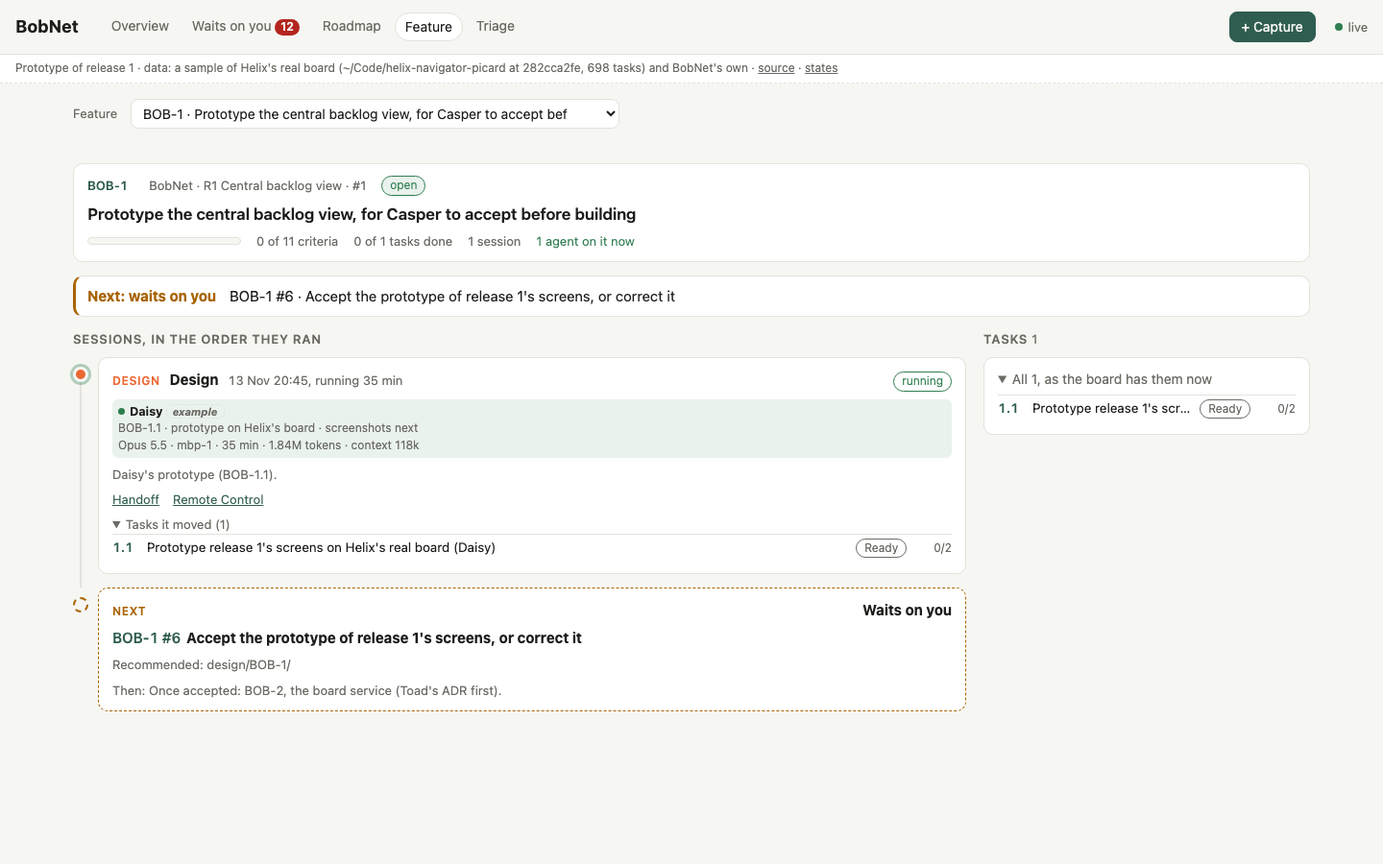
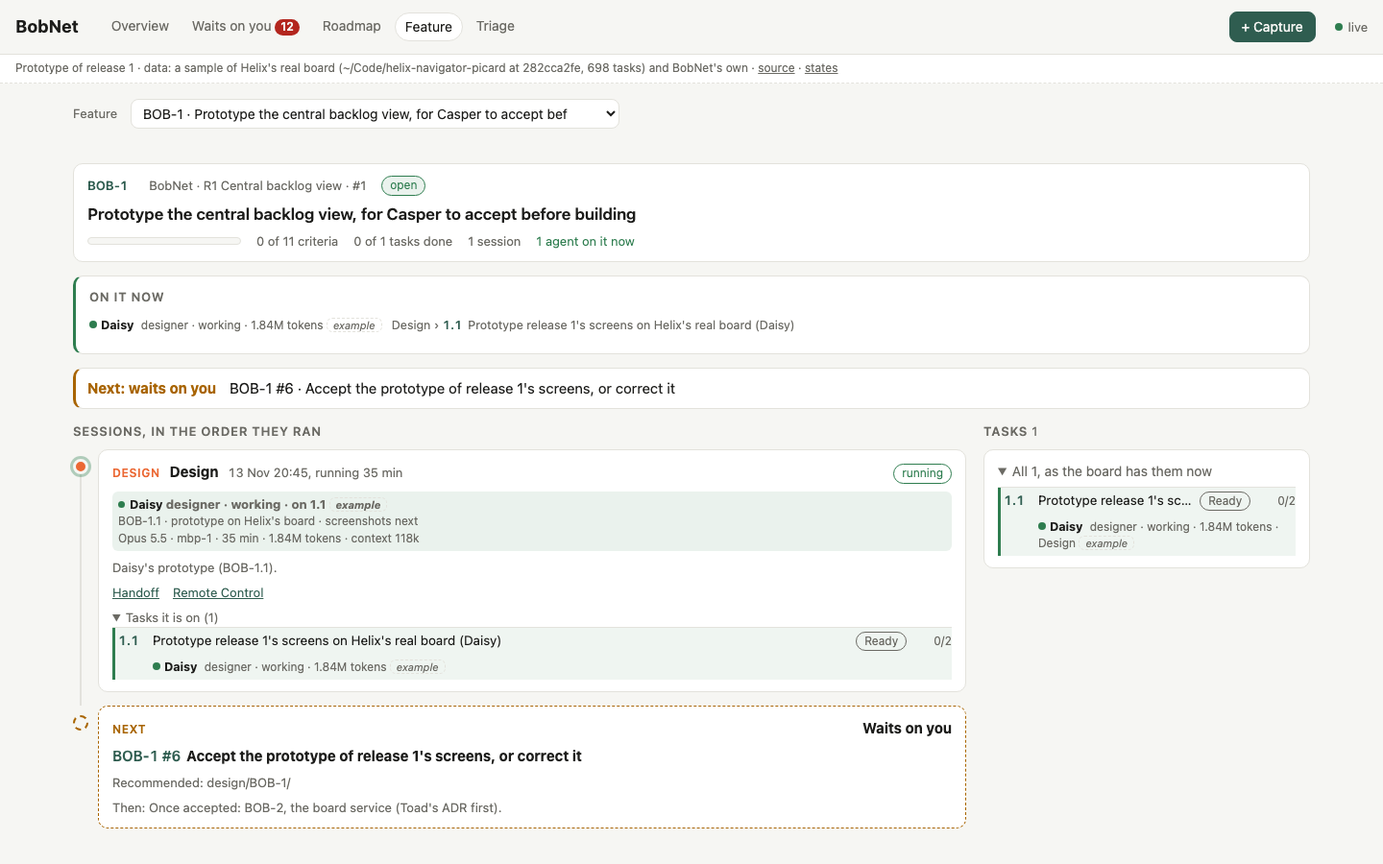
v2: design: BOB-1 round 1: agents on tasks, Overview redone, A-15 and Q-259 as needed-before

diff --git a/design/BOB-1/prototype/proto.js b/design/BOB-1/prototype/proto.js
@@ -75,50 +75,79 @@ function toast(text, undo) {
 
 const waitCount = () => state.waits.length;
 
-// ---------- Overview: every project, what's open, what's next, what waits on Casper ----------
+// Who works on what right now. A worker declares its session {feature, kind, label} and its tasks at spawn,
+// so agent -> session -> tasks is known. Leads and consults declare no session: "Other work".
+function working() {
+  const out = [];
+  for (const p of R.projects) for (const f of allFeatures(p.key)) for (const s of R.sessions[f.id] ?? [])
+    if (s.state === "running") for (const a of s.agents ?? []) out.push({ ...a, p, f, s });
+  for (const a of R.other ?? []) out.push({ ...a, p: proj(a.project), f: null, s: null, tasks: [] });
+  return out;
+}
+const onTask = (fid, n) => working().filter((a) => a.f?.id === fid && a.tasks.includes(n));
+const taskTitle = (fid, n) => { const b = R.projects.map((p) => S[p.key]).find((b) => b.feature === fid); return b?.tasks.find((t) => short(t.id) === n)?.title; };
+const STATE_DOT = { working: "on", "waiting on you": "warn", idle: "" };
+const agentChip = (a, withSession) => h("span", { class: "who", dataset: { state: a.state } },
+  h("i", { class: `dot ${STATE_DOT[a.state] ?? ""}`, "aria-hidden": "true" }), h("b", null, a.name), ` ${a.role} · ${a.state} · ${tok(a.tokens)} tokens`,
+  withSession && a.s ? ` · ${a.s.label}` : "", " ", ex(a.example));
+
+// ---------- Overview: what needs Casper, who is working on what, where each project stands ----------
 
 function overview() {
-  const blocking = state.waits.filter((w) => w.blocking);
-  const working = Object.values(R.sessions).flat().filter((s) => s.state === "running").flatMap((s) => s.agents ?? []);
-  const backlog = R.projects.reduce((n, p) => n + items(p.key).length, 0);
+  const ws = [...state.waits].sort((a, b) => a.since.localeCompare(b.since));
+  const blocking = ws.filter((w) => w.blocking), rest = ws.length - blocking.length;
+  const now = working();
   return [
-    h("div", { class: "totals" },
-      h("a", { href: "#waits", class: "tot" }, h("div", { class: blocking.length ? "hot" : "" }, h("b", null, waitCount()), h("span", null, `wait on you · ${blocking.length} hold work up`))),
-      h("div", null, h("b", null, working.length), h("span", null, "agents working")),
-      h("div", null, h("b", null, R.projects.length), h("span", null, "projects, 1 laptop")),
-      h("div", null, h("b", null, backlog), h("span", null, "backlog items to triage"))),
-    h("section", null, h("h2", null, "Projects"),
-      h("div", { class: "cards" }, R.projects.map(projectCard))),
-    h("section", null, h("h2", null, "Holds work up ", h("span", { class: "count" }, blocking.length)),
-      h("ul", { class: "list waits" }, blocking.slice(0, 3).map(waitItem)),
-      h("p", { class: "note" }, h("a", { href: "#waits" }, `All ${waitCount()} that wait on you`))),
+    h("div", { class: "ov" },
+      h("section", { class: "ov-needs" }, h("h2", null, "Needs you ", h("span", { class: "count" }, ws.length)),
+        h("div", { class: "card" },
+          blocking.length ? h("ul", { class: "lines" }, blocking.map((w) => h("li", { class: "hold" },
+            badge(w.kind === "bug" ? "bug" : w.kind, KIND[w.kind]),
+            h("a", { href: "#waits", class: "l-t" }, w.text),
+            h("span", { class: "l-m" }, `${proj(w.project).name}${w.feature ? ` · ${w.feature}` : ""} · holds up ${w.holds}`, " ", ex(w.example)))))
+            : h("p", { class: "muted", style: "margin:0" }, "Nothing is held up by you."),
+          h("a", { href: "#waits", class: "more" }, rest ? `${plural(blocking.length, "holds", "hold")} work up · ${rest} more when you have time →` : "Waits on you →"))),
+      h("section", { class: "ov-now" }, h("h2", null, "Working now ", h("span", { class: "count" }, now.length)),
+        now.length ? h("div", { class: "card" }, h("ul", { class: "lines now-list" }, now.map(nowLine)))
+          : h("div", { class: "empty-card" }, "No agent is working.")),
+      h("section", { class: "ov-proj" }, h("h2", null, "Projects"),
+        h("div", { class: "plist" }, R.projects.map(projectRow)))),
   ];
 }
 
-function projectCard(p) {
+function nowLine(a) {
+  const n = a.tasks[0];
+  return h("li", { dataset: { state: a.state } },
+    h("span", { class: "l-who" }, h("i", { class: `dot ${STATE_DOT[a.state] ?? ""}`, "aria-hidden": "true" }), h("b", null, a.name), h("span", { class: "muted" }, ` ${a.role}`)),
+    h("span", { class: "l-path" },
+      h("span", { class: "muted" }, a.p.name, " › "),
+      a.f ? [h("a", { class: "id", href: `#feature/${a.f.id}` }, a.f.id), h("span", { class: "muted" }, `${a.s.label} › `),
+        a.tasks.map((t) => h("a", { href: `#feature/${a.f.id}`, class: "l-task", title: taskTitle(a.f.id, t) ?? "" }, h("span", { class: "id" }, t), taskTitle(a.f.id, t)?.replace(/^[^:]{0,40}:\s*/, "") ?? ""))]
+        : h("span", { class: "muted", style: "font-style:italic" }, "Other work (no session)")),
+    h("span", { class: "l-m" }, a.state === "working" ? null : h("span", { style: "color:var(--warn)" }, `${a.state} · `), `${tok(a.tokens)} tokens`, " ", ex(a.example)));
+}
+
+function projectRow(p) {
   const fs = allFeatures(p.key);
   const open = fs.find(isOpen), ready = fs.find((f) => f.status === "Ready" && !isOpen(f));
   const rel = open?.rel ?? releases(p.key)[0];
   const relFs = rel.features, relDone = relFs.filter((f) => f.status === "Done").length;
-  const ws = state.waits.filter((w) => w.project === p.key), wb = ws.filter((w) => w.blocking).length;
   const its = items(p.key), bugs = its.filter(isBug).length, oldest = its.length ? Math.max(...its.map((d) => days(d.created))) : 0;
   const nx = open && R.next[open.id];
-  const agents = open ? (R.sessions[open.id] ?? []).filter((s) => s.state === "running").flatMap((s) => s.agents) : [];
-  return h("div", { class: "card proj" },
-    h("div", { class: "top" }, h("a", { href: `#roadmap/${p.key}`, class: "name", style: "color:inherit;text-decoration:none;font-size:16px" }, p.name),
-      h("span", { class: "sub" }, `${p.laptop} · lead ${p.lead} · PO ${p.po}`)),
-    h("div", { class: "row" }, h("span", null, "Release"), h("span", null, `${rel.title.split(" ")[0]} ${rel.title.split(" ").slice(1).join(" ")} · ${relDone} of ${relFs.length} features done`)),
-    h("div", { class: "row" }, h("span", null, "Open"), open
-      ? h("span", { class: "t" }, h("a", { class: "id", href: `#feature/${open.id}` }, open.id), open.title,
-        h("div", { class: "muted" }, `${open.ac[0]} of ${open.ac[1]} criteria · ${agents.length ? `${plural(agents.length, "agent")} on it now` : "nobody on it now"}`),
-        nx ? h("div", { class: "muted", style: "color:var(--warn)" }, `Next: waits on you, ${nx.item.replace("#", " #")}`) : null)
+  const agents = open ? working().filter((a) => a.f?.id === open.id) : [];
+  const cell = (label, ...kids) => h("div", { class: "pc" }, h("span", { class: "lab" }, label), ...kids);
+  return h("div", { class: "card prow" },
+    h("div", { class: "pc pname" }, h("a", { href: `#roadmap/${p.key}` }, p.name), h("span", { class: "muted" }, `${p.laptop} · lead ${p.lead} · PO ${p.po}`)),
+    cell("Release", h("span", { class: "v" }, h("b", null, rel.title.split(" ")[0]), " ", rel.title.split(" ").slice(1).join(" ")),
+      meter(relDone, relFs.length), h("span", { class: "muted" }, `${relDone} of ${relFs.length} features done`)),
+    cell("Open now", open
+      ? [h("a", { href: `#feature/${open.id}`, class: "v clamp" }, h("span", { class: "id" }, open.id), open.title),
+         h("span", { class: "muted" }, `${open.ac[0]} of ${open.ac[1]} criteria · `,
+           agents.length ? h("span", { style: "color:var(--ok)" }, `${agents.map((a) => a.name).join(", ")} on it`) : "nobody on it")]
       : h("span", { class: "muted" }, "no feature open")),
-    h("div", { class: "row" }, h("span", null, "Next ready"), ready
-      ? h("span", { class: "t" }, h("a", { class: "id", href: `#roadmap/${p.key}` }, ready.id), ready.title)
-      : h("span", { class: "muted" }, "none Ready yet")),
-    h("div", { class: "row" }, h("span", null, "Waits on you"), h("span", null, h("a", { href: "#waits" }, ws.length), wb ? h("span", { style: "color:var(--bad)" }, ` · ${wb} hold work up`) : "")),
-    h("div", { class: "row" }, h("span", null, "Backlog"), its.length
-      ? h("span", null, h("a", { href: `#triage/${p.key}` }, `${its.length} items`), ` · ${plural(bugs, "bug")} · oldest ${oldest} days`)
+    cell("Next", nx ? h("a", { href: "#waits", class: "v", style: "color:var(--warn)" }, `Waits on you: ${nx.item.replace("#", " #")}`) : null,
+      ready ? h("span", { class: "muted clamp" }, "Then Ready: ", h("span", { class: "id" }, ready.id), ready.title) : h("span", { class: "muted" }, "none Ready yet")),
+    cell("Backlog", its.length ? [h("a", { href: `#triage/${p.key}`, class: "v" }, `${its.length} items`), h("span", { class: "muted" }, `${plural(bugs, "bug")} · oldest ${oldest} days`)]
       : h("span", { class: "muted" }, "nothing to triage")));
 }
 
@@ -241,11 +270,14 @@ function feature(id) {
   if (!hit) return [h("div", { class: "empty-card" }, `No feature ${id}.`)];
   const { p, f } = hit;
   const b = S[p.key], ss = R.sessions[id] ?? [], nx = R.next[id];
-  const tasks = b.feature === id ? b.tasks : [];
+  const live = ss.filter((s) => s.state === "running");
+  const liveSt = new Map(live.flatMap((s) => s.moved));
+  // A task an agent is on shows In Progress (the sample's board predates the example session).
+  const tasks = (b.feature === id ? b.tasks : []).map((t) => (liveSt.has(short(t.id)) ? { ...t, status: liveSt.get(short(t.id)) } : t));
   const byShort = new Map(tasks.map((t) => [short(t.id), t]));
   const inSession = new Set(ss.flatMap((s) => s.moved.map((m) => m[0])));
   const loose = tasks.filter((t) => !inSession.has(short(t.id)));
-  const agents = ss.filter((s) => s.state === "running").flatMap((s) => s.agents);
+  const agents = working().filter((a) => a.f?.id === id);
   const pickable = R.projects.flatMap((q) => allFeatures(q.key).filter((x) => x.status !== "Done" && (R.sessions[x.id] || x.status === "Ready")));
   const wait = nx && state.waits.find((w) => w.id === nx.item);
   return [
@@ -258,43 +290,48 @@ function feature(id) {
         h("div", { class: "title" }, f.title),
         h("div", { class: "facts" }, meter(f.ac[0], f.ac[1]), h("span", null, `${f.ac[0]} of ${f.ac[1]} criteria`), h("span", null, `${f.tasksDone} of ${f.tasks} tasks done`),
           h("span", null, `${plural(ss.length, "session")}`), h("span", { style: agents.length ? "color:var(--ok)" : "" }, agents.length ? `${plural(agents.length, "agent")} on it now` : "nobody on it now"))),
+      agents.length ? h("section", { class: "card on-now" }, h("h2", { style: "margin:0" }, "On it now"),
+        h("ul", { class: "lines" }, agents.map((a) => h("li", null, agentChip(a, false), h("span", { class: "l-m" }, `${a.s.label} › `,
+          a.tasks.map((n) => [h("span", { class: "id" }, n), taskTitle(id, n) ?? ""])))))) : null,
       wait ? h("a", { href: "#next", class: "banner", style: "text-decoration:none;color:inherit" }, h("b", { style: "color:var(--warn)" }, "Next: waits on you"), h("span", null, `${wait.id.replace("#", " #")} · ${wait.text}`)) : null,
       h("div", { class: "two" },
         h("section", null, h("h2", null, "Sessions, in the order they ran"),
           ss.length ? h("ol", { class: "steps" }, ss.map((s, i) => stepItem(p, s, byShort, i === ss.length - 1)), nextItem(nx, wait))
             : h("div", { class: "empty-card" }, "No session has run on this feature yet. Next: a design session, once it is Ready.")),
         h("aside", null, h("h2", null, "Tasks ", h("span", { class: "count" }, tasks.length)),
-          loose.length ? h("div", { class: "card", style: "margin-bottom:10px" }, h("div", { class: "muted" }, "In no session yet"), h("ul", { class: "tasks" }, loose.map((t) => taskLi(t, t.status)))) : null,
-          h("details", { class: "card", open: innerWidth >= 1100 || null }, h("summary", { style: "margin:0" }, `All ${tasks.length}, as the board has them now`), h("ul", { class: "tasks" }, tasks.map((t) => taskLi(t, t.status))))))),
+          loose.length ? h("div", { class: "card", style: "margin-bottom:10px" }, h("div", { class: "muted" }, "In no session yet"), h("ul", { class: "tasks" }, loose.map((t) => taskLi(t, t.status, onTask(id, short(t.id)), true)))) : null,
+          h("details", { class: "card", open: innerWidth >= 1100 || null }, h("summary", { style: "margin:0" }, `All ${tasks.length}, as the board has them now`), h("ul", { class: "tasks" }, tasks.map((t) => taskLi(t, t.status, onTask(id, short(t.id)), true))))))),
   ];
 }
 
-function taskLi(t, st) {
-  return h("li", null, h("span", { class: "id" }, short(t.id)), h("span", { class: "tt", title: t.title }, t.title),
-    badge(st === "In Review" ? "in review" : st.toLowerCase(), st), h("span", { class: "ac" }, t.ac[1] ? `${t.ac[0]}/${t.ac[1]}` : "–"));
+function taskLi(t, st, on = [], withSession = false) {
+  return h("li", { class: on.length ? "on" : null }, h("span", { class: "id" }, short(t.id)), h("span", { class: "tt", title: t.title }, t.title),
+    badge(st === "In Review" ? "in review" : st === "In Progress" ? "running" : st.toLowerCase(), st), h("span", { class: "ac" }, t.ac[1] ? `${t.ac[0]}/${t.ac[1]}` : "–"),
+    on.length ? h("span", { class: "on-it" }, on.map((a) => agentChip(a, withSession))) : null);
 }
 
 function stepItem(p, s, byShort, last) {
   const helix = p.key === "helix";
-  const moved = s.moved.map(([n, st]) => { const t = byShort.get(n); return t ? taskLi(t, st) : null; });
+  const live = s.state === "running";
+  const moved = s.moved.map(([n, st]) => { const t = byShort.get(n); return t ? taskLi(t, st, live ? (s.agents ?? []).filter((a) => a.tasks.includes(n)).map((a) => ({ ...a, s })) : []) : null; });
   const closedN = s.moved.filter((m) => m[1] === "Done").length;
   return h("li", { class: "step", dataset: { kind: s.kind, state: s.state } }, h("span", { class: "dot2", "aria-hidden": "true" }),
     h("div", { class: "card" },
-      h("div", { class: "top" }, h("span", { class: "kind" }, s.kind), h("b", null, s.label), h("span", { class: "when" }, span(s.start, s.end)), badge(s.state)),
+      h("div", { class: "top" }, h("span", { class: "kind" }, s.kind), h("b", null, s.label), h("span", { class: "when" }, span(s.start, s.end)), ex(s.example), badge(s.state)),
       s.state === "closed" ? h("div", { class: "outcome" },
         h("span", { class: "need", dataset: { need: s.need } }, `need: ${s.need}`, s.needs.length ? ` (${s.needs.join(", ")})` : ""),
         h("span", null, `${plural(s.blockers, "blocker")} · ${plural(s.majors, "major")}`),
         s.minors ? h("span", null, `${s.minors} minors, fixed`) : null, s.back ? h("span", null, `${s.back} sent back`) : null,
         h("span", null, closedN ? `closed ${plural(closedN, "task")}` : `moved ${plural(s.moved.length, "task")}`),
         s.tokens ? h("span", { class: "muted" }, `${tok(s.tokens)} tokens`, " ", ex(s.tokensExample)) : null) : null,
-      (s.agents ?? []).map((a) => h("div", { class: "agent" }, h("b", null, a.name, " ", ex(a.example)), h("span", { class: "d" }, a.checkpoint),
+      (s.agents ?? []).map((a) => h("div", { class: "agent", dataset: { state: a.state } }, h("b", null, a.name, " ", h("span", { class: "muted" }, `${a.role} · ${a.state}${a.tasks?.length ? ` · on ${a.tasks.join(", ")}` : ""}`), " ", ex(a.example)), h("span", { class: "d" }, a.checkpoint),
         h("span", { class: "d" }, `${a.model} · ${a.laptop} · ${dur(s.start, R.now.slice(0, 16))} · ${tok(a.tokens)} tokens · context ${tok(a.ctx)}`))),
       h("div", { class: "sub" }, s.summary),
       h("div", { class: "links" },
         s.handoff ? h("a", { href: "#source", title: helix ? `~/.local/state/bobnet/handoffs/helix/${s.handoff}` : s.handoff }, "Handoff") : h("span", { class: "off" }, "No handoff file"),
         s.commit ? h("a", { href: "#source", title: `helix-navigator-picard ${s.commit}` }, `Close ${s.commit.slice(0, 7)}`) : null,
         s.rc ? h("a", { href: "#source" }, "Remote Control") : h("span", { class: "off" }, s.state === "running" ? "No Remote Control" : "")),
-      moved.length ? h("details", { open: last || null }, h("summary", null, `Tasks it moved (${moved.length})`), h("ul", { class: "tasks" }, moved)) : null));
+      moved.length ? h("details", { open: last || null }, h("summary", null, live ? `Tasks it is on (${moved.length})` : `Tasks it moved (${moved.length})`), h("ul", { class: "tasks" }, moved)) : null));
 }
 
 function nextItem(nx, wait) {
@@ -320,6 +357,7 @@ function waitItem(w) {
     h("div", { class: "meta" },
       w.rec ? h("span", null, w.kind === "question" ? "Recommended: " : "", w.rec) : null,
       w.holds ? h("span", { style: "color:var(--bad)" }, `Holds up ${w.holds}`) : null,
+      w.before ? h("span", null, `Needed before ${w.before}`) : null,
       h("span", null, `from ${w.from}`),
       w.session ? h("span", null, w.session) : null,
       h("a", { href: "#source" }, w.kind === "question" || w.kind === "action" ? "Open in lead/questions.md" : w.kind === "permission" ? "Open in the supervisor" : "Open")));
@@ -464,7 +502,7 @@ function render() {
   const [route = "overview", a, b] = location.hash.slice(1).split("/");
   const views = { overview: () => overview(), roadmap: () => roadmap(a ?? "helix", b === "edit"), feature: () => feature(a ?? "LAND-49"), waits: () => waits(), triage: () => triage(a ?? "helix", b === "edit"), source: () => source(), states: () => states() };
   const v = views[route] ?? views.overview;
-  $("view").className = route === "feature" || route === "roadmap" ? "wide" : "";
+  $("view").className = route === "feature" || route === "roadmap" || route === "overview" ? "wide" : "";
   $("view").replaceChildren(...v().filter(Boolean));
   for (const el of document.querySelectorAll("#tabs a")) el.toggleAttribute("aria-current", el.getAttribute("href").slice(1).split("/")[0] === route);
   $("wait-count").textContent = waitCount() || "";

diff --git a/design/BOB-1/prototype/proto.css b/design/BOB-1/prototype/proto.css
@@ -22,11 +22,61 @@ nav a .count:not(:empty) { display: inline-block; min-width: 18px; text-align: c
 .badge[data-state="question"], .badge[data-state="action"], .badge[data-state="review"], .badge[data-state="permission"] { color: var(--warn); }
 .sub-note { font-size: 12px; color: var(--muted); font-style: italic; }
 
-/* Overview */
-.proj { gap: 10px; }
-.proj .row { display: grid; grid-template-columns: 7.5em 1fr; gap: 8px; font-size: 14px; align-items: baseline; }
-.proj .row > span:first-child { color: var(--muted); font-size: 12px; text-transform: uppercase; letter-spacing: .05em; }
-.proj .t { overflow-wrap: anywhere; }
+/* Overview: needs you and working now side by side, then one full-width row per project */
+.ov { display: grid; gap: 22px; }
+@media (min-width: 900px) { .ov { grid-template-columns: minmax(0, 1fr) minmax(0, 1fr); } .ov-proj { grid-column: 1 / -1; } }
+.ov h2 { margin-bottom: 8px; }
+.ov .card { gap: 0; padding: 4px 14px 10px; }
+.lines { list-style: none; margin: 0; padding: 0; display: grid; }
+.lines li { display: grid; gap: 2px 10px; padding: 8px 0; border-top: 1px solid var(--line); font-size: 14px; min-width: 0; }
+.lines li:first-child { border-top: 0; }
+.lines .l-m { font-size: 12.5px; color: var(--muted); }
+.ov-needs li.hold { grid-template-columns: auto minmax(0, 1fr); align-items: baseline; }
+.ov-needs li.hold .badge { grid-row: span 2; }
+.ov-needs .l-t { color: var(--text); font-weight: 600; text-decoration: none; overflow: hidden; text-overflow: ellipsis; white-space: nowrap; }
+.ov-needs .l-m { color: var(--bad); }
+.ov-needs .l-m .example { color: var(--muted); }
+.ov .more { font-size: 13px; padding-top: 8px; border-top: 1px solid var(--line); text-decoration: none; }
+.now-list li { grid-template-columns: minmax(0, 1fr) auto; align-items: baseline; }
+.now-list .l-path { grid-column: 1 / -1; grid-row: 2; min-width: 0; overflow: hidden; text-overflow: ellipsis; white-space: nowrap; padding-left: 14px; }
+.now-list .l-path .id { margin-right: 4px; }
+.now-list .l-task { color: var(--text); text-decoration: none; }
+.now-list .l-m { white-space: nowrap; font-variant-numeric: tabular-nums; text-align: right; }
+.dot.warn { background: var(--warn); }
+.plist { display: grid; gap: 10px; }
+.prow { grid-template-columns: 11em repeat(4, minmax(0, 1fr)); gap: 8px 22px; padding: 12px 14px; align-items: start; }
+.prow .pc { display: grid; gap: 4px; min-width: 0; font-size: 14px; align-content: start; }
+.prow .pc .lab { font-size: 11.5px; color: var(--muted); text-transform: uppercase; letter-spacing: .05em; }
+.prow .pname a { font-size: 17px; font-weight: 600; color: var(--text); text-decoration: none; }
+.prow .v { color: var(--text); text-decoration: none; }
+.prow a.v:hover { text-decoration: underline; }
+.prow .meter { max-width: 220px; }
+.clamp { display: -webkit-box; -webkit-line-clamp: 2; -webkit-box-orient: vertical; overflow: hidden; }
+@media (max-width: 1099px) { .prow { grid-template-columns: repeat(2, minmax(0, 1fr)); } .prow .pname { grid-column: 1 / -1; grid-template-columns: auto 1fr; align-items: baseline; gap: 10px; } }
+@media (max-width: 520px) {
+  .prow { grid-template-columns: minmax(0, 1fr); gap: 10px; }
+  .prow .pname { grid-template-columns: 1fr; gap: 0; }
+  .prow .pc:not(.pname) { grid-template-columns: 5.5em minmax(0, 1fr); column-gap: 10px; }
+  .prow .pc:not(.pname) > :not(.lab) { grid-column: 2; }
+  .prow .pc .lab { grid-row: 1; padding-top: 2px; }
+  .now-list .l-path { white-space: normal; display: -webkit-box; -webkit-line-clamp: 2; -webkit-box-orient: vertical; }
+}
+
+/* Who is on a task, live: on a task row in the chain and in the board's list */
+.who { display: block; font-size: 12px; color: var(--muted); }
+.who b { color: var(--text); font-size: 12.5px; }
+.who .dot { margin-right: 4px; }
+.who b { margin-right: 4px; }
+.who[data-state="waiting on you"] { color: var(--warn); }
+.tasks li .on-it { grid-column: 2 / -1; display: grid; gap: 2px; }
+.tasks li.on { background: color-mix(in srgb, var(--ok) 8%, transparent); box-shadow: inset 3px 0 0 var(--ok); padding-left: 6px; }
+.on-now { gap: 4px; border-left: 3px solid var(--ok); }
+.on-now .lines li { grid-template-columns: minmax(0, auto) minmax(0, 1fr); align-items: baseline; }
+.on-now .l-m { overflow: hidden; text-overflow: ellipsis; white-space: nowrap; }
+@media (max-width: 760px) { .on-now .lines li { grid-template-columns: minmax(0, 1fr); } .on-now .l-m { white-space: normal; } }
+.agent[data-state="waiting on you"] { background: color-mix(in srgb, var(--warn) 12%, var(--surface)); }
+.agent[data-state="waiting on you"] b::before { background: var(--warn); }
+.badge[data-state="running"] { color: var(--ok); }
 a.tot { text-decoration: none; color: inherit; }
 .totals .hot { border-left: 3px solid var(--bad); }
 .totals .hot b { color: var(--bad); }
@@ -100,6 +150,7 @@ td select.move { font: inherit; font-size: 13px; padding: 3px 6px; border-radius
   .tasks li .tt { white-space: normal; grid-column: 1 / -1; grid-row: 2; }
   .tasks li .badge { grid-column: 2; grid-row: 1; justify-self: start; }
   .tasks li .ac { grid-column: 3; grid-row: 1; }
+  .tasks li .on-it { grid-column: 1 / -1; grid-row: 3; }
 }
 
 /* Waits on Casper */
@@ -133,3 +184,4 @@ dialog .foot { display: flex; gap: 8px; justify-content: flex-end; }
 .state-demo { display: grid; gap: 10px; }
 .empty-card { background: var(--surface); border: 1px dashed var(--line); border-radius: var(--radius); padding: 18px 14px; color: var(--muted); font-size: 14px; text-align: center; }
 .banner.down { border-left-color: var(--bad); }
+@media (max-width: 520px) { .ov-needs .l-t { white-space: normal; display: -webkit-box; -webkit-line-clamp: 2; -webkit-box-orient: vertical; } }

diff --git a/design/BOB-1/sample/records.js b/design/BOB-1/sample/records.js
@@ -40,16 +40,35 @@
         moved: [["49.5", "Done"], ["49.11", "Done"], ["49.18", "Done"], ["49.20", "Done"], ["49.19", "Ready"]],
         summary: "49.19 stays Ready until Q-258. DRAFT-107 (web-bff refresh-token rotation).",
         handoff: null, commit: "1623d7e04", tokens: 7400000, tokensExample: true },
+      // Example: no second fixes session has run. It shows two agents of one running session on different tasks.
+      // Each worker declares its session {feature, kind, label} and its tasks at spawn (supervisor spawn_worker).
+      { kind: "build", label: "Fixes 2", start: "2026-11-13T20:05", end: null, state: "running", example: true,
+        agents: [
+          { name: "Marvin", role: "tester", state: "working", tasks: ["49.19"], model: "Opus 5.5", laptop: "mbp-1", tokens: 2310000, ctx: 96000, example: true,
+            checkpoint: "49.19 · C11 rerun scripted · waits for the two-company account (Q-258)" },
+          { name: "Howard", role: "engineer", state: "waiting on you", tasks: ["49.14"], model: "Opus 5.5", laptop: "mbp-1", tokens: 1480000, ctx: 71000, example: true,
+            checkpoint: "49.14 · shapefile export in EPSG:4326 until A-17 says otherwise · asks to kill an idle vitest (permission)" },
+        ],
+        moved: [["49.19", "In Progress"], ["49.14", "In Progress"]],
+        summary: "Reruns C11 on staging (49.19) and redoes the shapefiles' coordinate system (49.14).",
+        handoff: null, rc: true },
     ],
     "BOB-1": [
       { kind: "design", label: "Design", start: "2026-11-13T20:45", end: null, state: "running",
-        agents: [{ name: "Daisy", model: "Opus 5.5", laptop: "mbp-1", tokens: 1840000, ctx: 118000, example: true,
+        agents: [{ name: "Daisy", role: "designer", state: "working", tasks: ["1.1"], model: "Opus 5.5", laptop: "mbp-1", tokens: 1840000, ctx: 118000, example: true,
           checkpoint: "BOB-1.1 · prototype on Helix's board · screenshots next" }],
         moved: [["1.1", "Ready"]], summary: "Daisy's prototype (BOB-1.1).", handoff: "w_768eb4e6.md", rc: true },
     ],
   },
+  // Agents with no session: leads and consults declare none, so they show as "Other work" on their project.
+  other: [
+    { name: "Bob", role: "lead", project: "helix", state: "working", model: "Opus 5.5", laptop: "mbp-1", tokens: 3900000, ctx: 142000, example: true,
+      checkpoint: "Runs LAND-49's fixes 2; Q-258 asked again" },
+    { name: "Mario", role: "lead", project: "bobnet", state: "working", model: "Opus 5.5", laptop: "mbp-1", tokens: 2700000, ctx: 88000, example: true,
+      checkpoint: "Casper reviewing BOB-1 live; round 1 with Daisy" },
+  ],
   next: {
-    "LAND-49": { kind: "casper", item: "Q-258", then: "A fixes session reruns C11 on staging (49.19). After it: 49.14 once A-17 is done, then 49.13, rehearsal 2, your live run." },
+    "LAND-49": { kind: "casper", item: "Q-258", then: "Fixes 2 reruns C11 on staging (49.19) once the account has two companies. After it: 49.13, rehearsal 2, your live run." },
     "BOB-1": { kind: "casper", item: "BOB-1#6", then: "Once accepted: BOB-2, the board service (Toad's ADR first)." },
   },
   waits: [
@@ -61,13 +80,13 @@
       text: "Accept the prototype of release 1's screens, or correct it", rec: "design/BOB-1/", from: "Peach" },
     { id: "A-17", kind: "action", project: "helix", feature: "LAND-49", holds: "LAND-49.14", blocking: true, since: "2026-11-10",
       text: "Try claude.ai and Desktop on Marvin's shapefile cut; tell Bob which app and coordinate system work", rec: "qa/runs/land-31-3-claude-app-test.md", from: "Bob" },
-    { id: "Q-259", kind: "question", project: "helix", feature: "LAND-49", holds: "rehearsal 2 (49.13)", blocking: false, since: "2026-11-13",
+    { id: "Q-259", kind: "question", project: "helix", feature: "LAND-49", holds: null, before: "rehearsal 2 (49.13)", blocking: false, since: "2026-11-13",
       text: "Is the account mark the account's initials? Will you re-save the demo home view with Status?", rec: "(1) yes, as built; (2) re-save before rehearsal 2", from: "Marvin, Calvin" },
     { id: "Q-257", kind: "question", project: "helix", feature: "LAND-49", holds: null, blocking: false, since: "2026-11-13",
       text: "Does the wide map read before its text, on staging?", rec: "Yes (Calvin)", from: "Calvin, review 2" },
     { id: "PERM", kind: "permission", project: "helix", feature: "LAND-49", holds: "Howard's build", blocking: true, since: "2026-11-13", example: true,
       text: "Howard asks to run: kill 33987 (an idle vitest left from the build)", rec: "Pending in the supervisor", from: "Howard" },
-    { id: "A-15", kind: "action", project: "helix", feature: "LAND-44", holds: "the demo", blocking: false, since: "2026-11-10",
+    { id: "A-15", kind: "action", project: "helix", feature: "LAND-44", holds: null, before: "the demo", blocking: false, since: "2026-11-10",
       text: "In Claude, replace the old Helix connector with mcp-staging.helixnavigator.com/mcp", rec: "Claude's connector settings", from: "Bob" },
     { id: "A-20", kind: "action", project: "helix", feature: "LAND-48", holds: null, blocking: false, since: "2026-11-10",
       text: "Decide whether the CI token helix-v2-ci keeps DNS: Edit", rec: "Cloudflare dashboard, API tokens", from: "Bender" },
